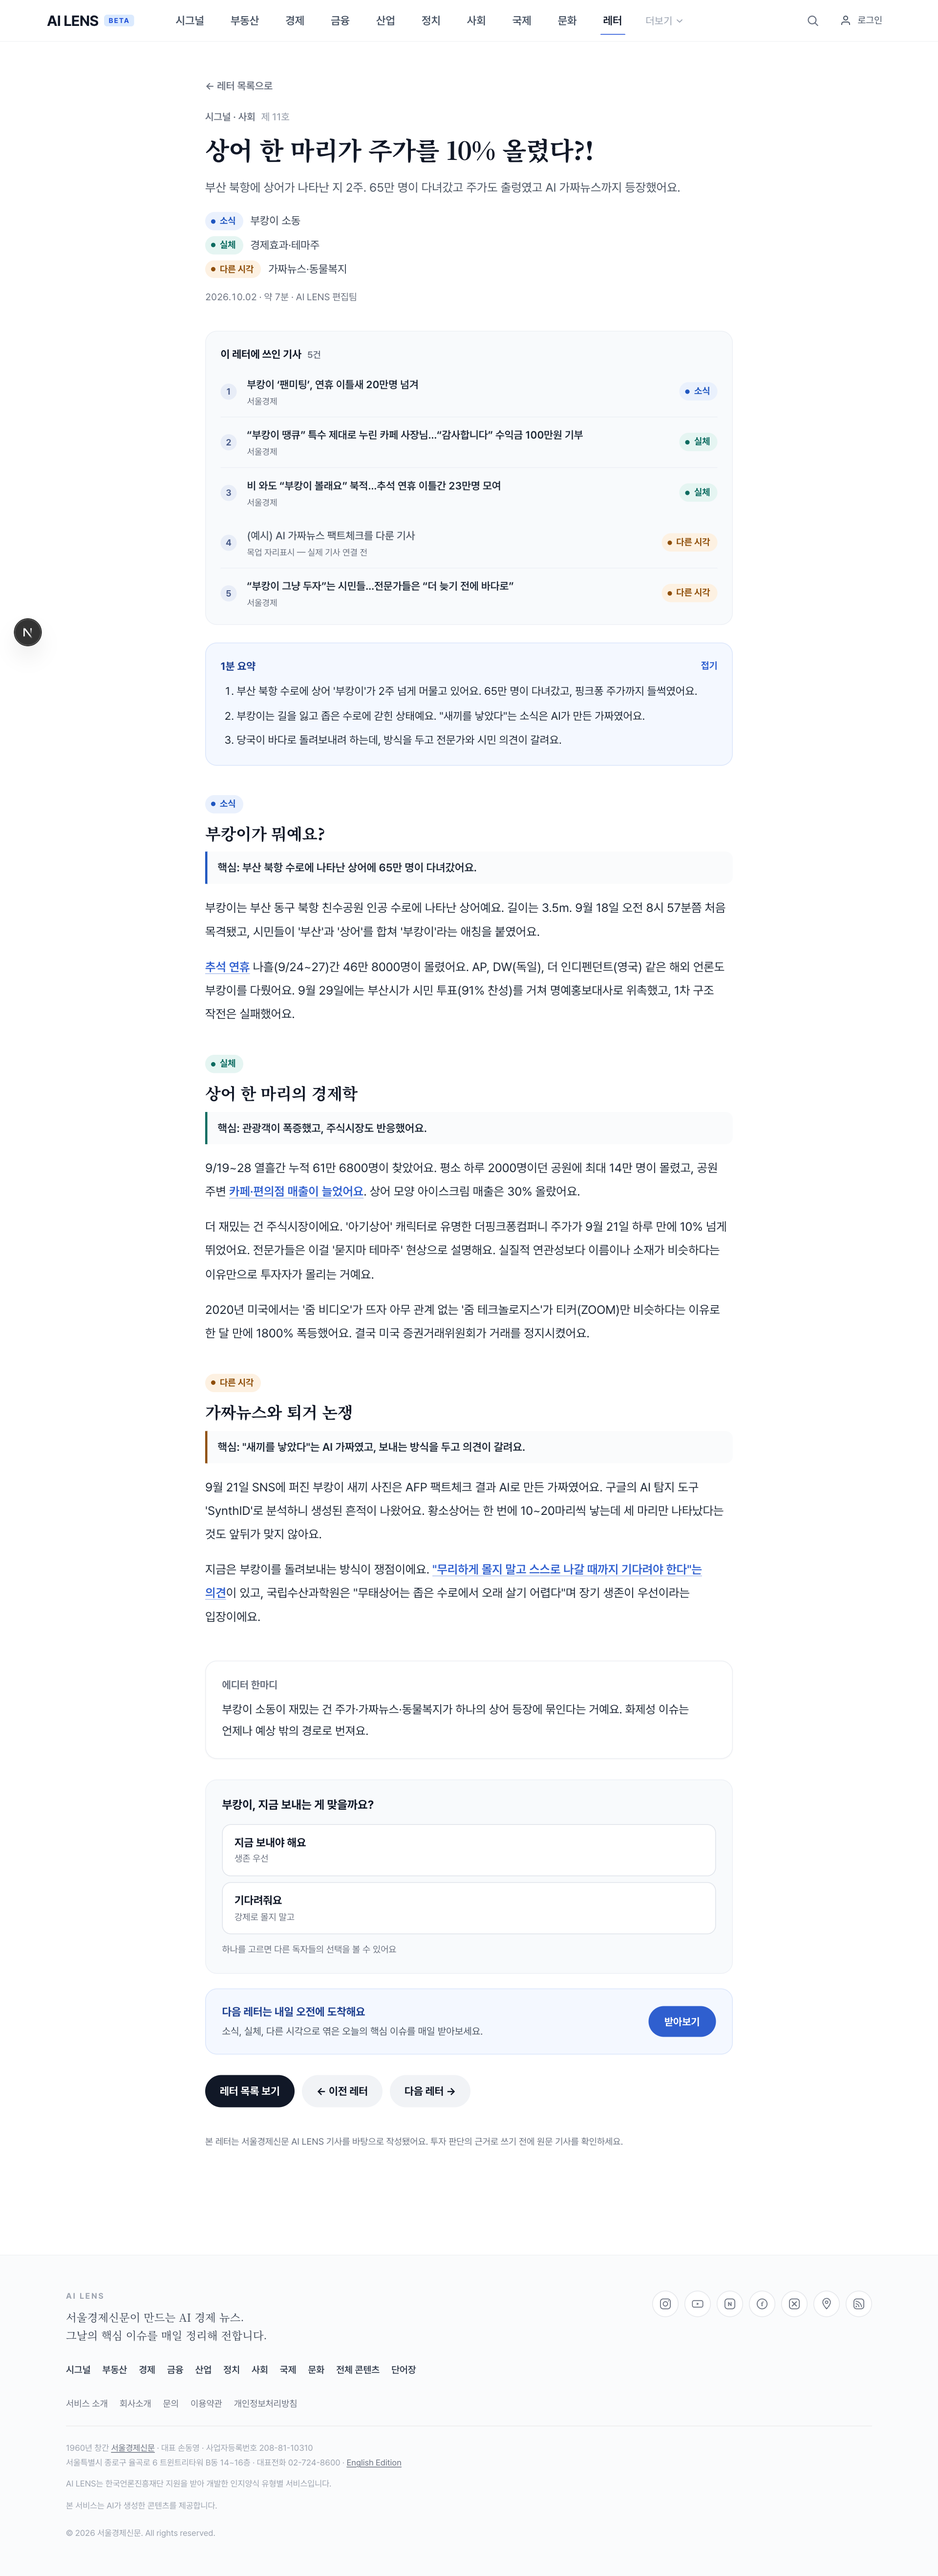
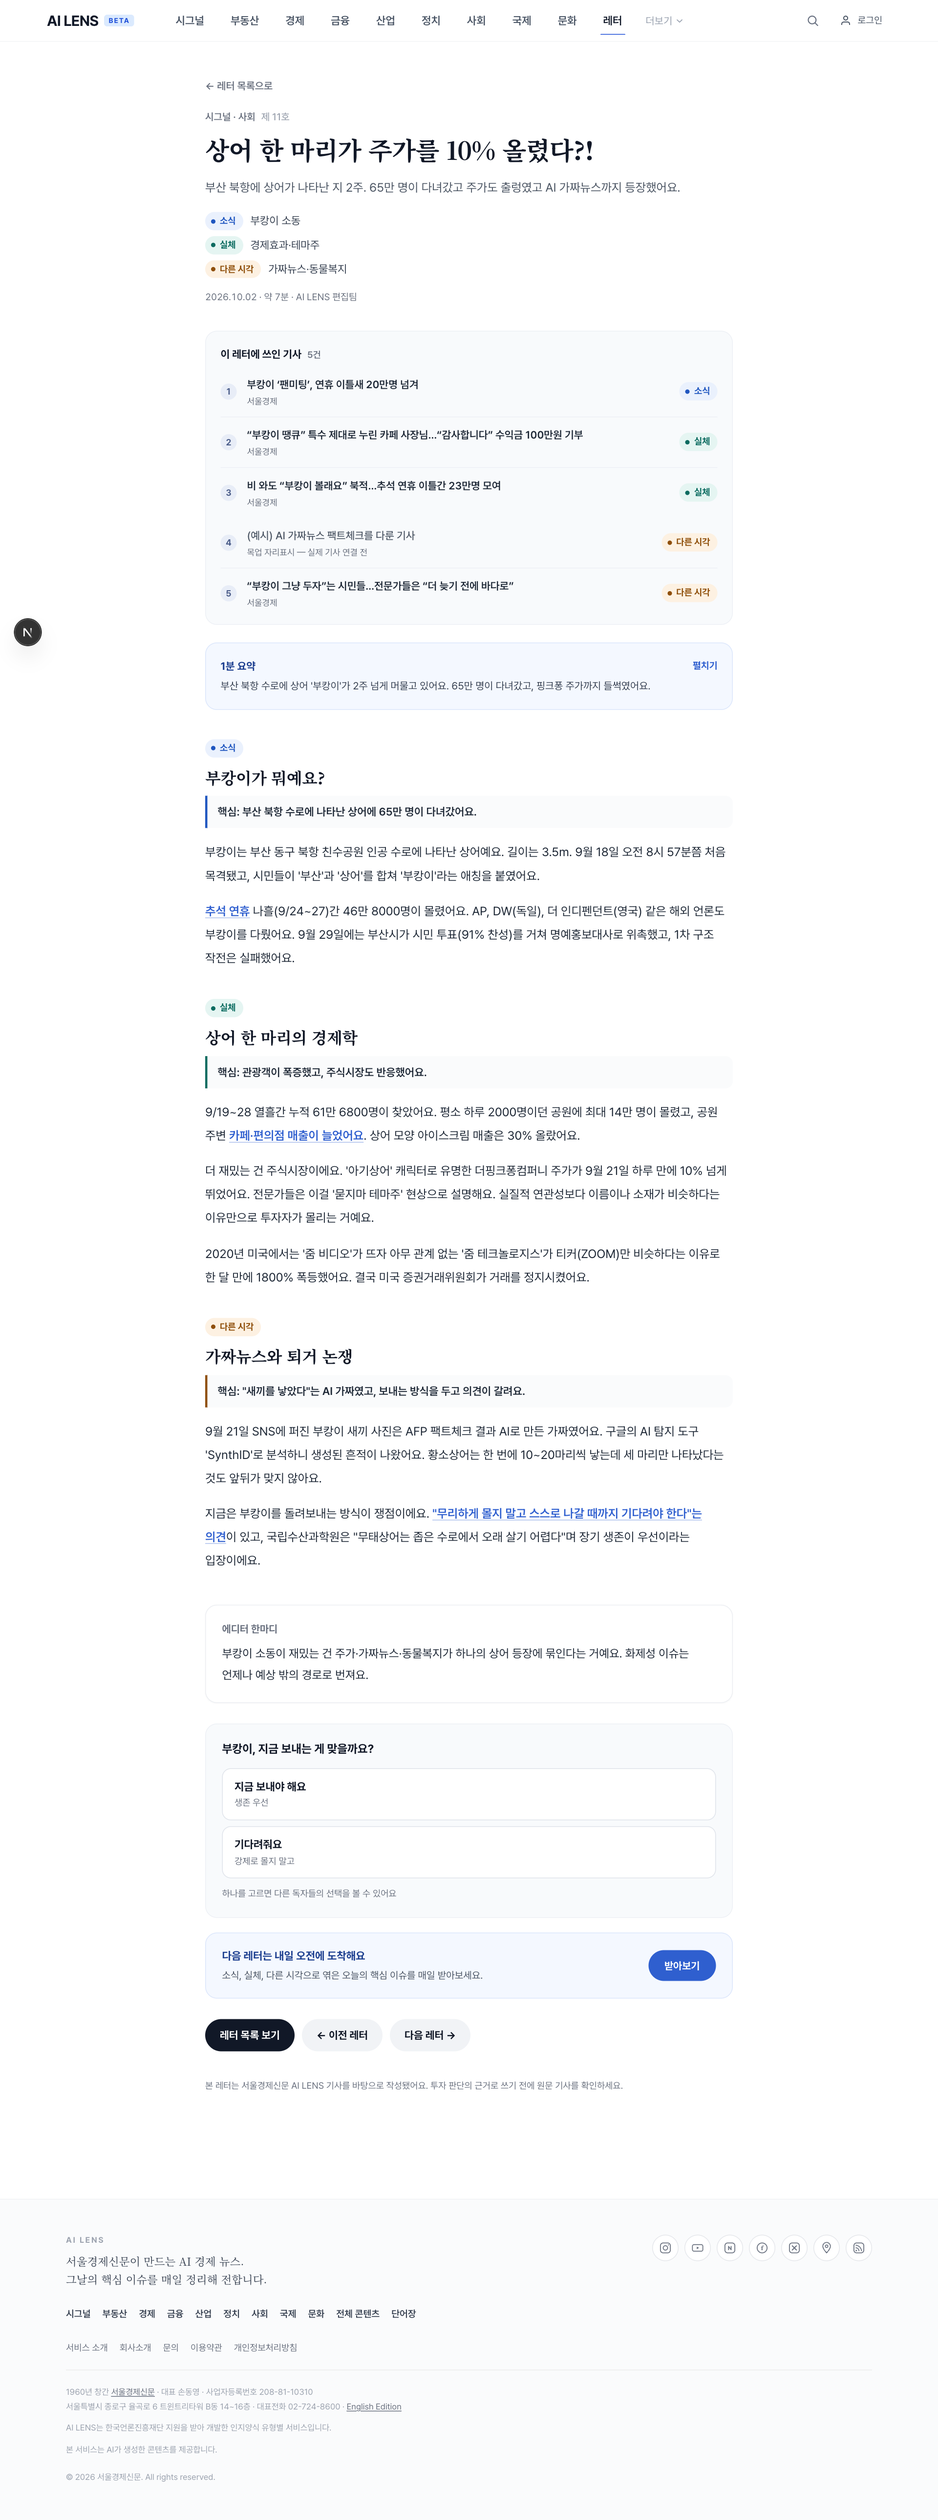
레터 탭: 요약 기본 접힘, 카드 3축 색 띠, 형식 탭 이름 레터→읽기

diff --git a/service/frontend/src/features/letter/components/letterStyles.ts b/service/frontend/src/features/letter/components/letterStyles.ts
@@ -12,6 +12,9 @@ export const LETTER_CSS = `
   .lt-chip[aria-pressed='true'] { background: #111827; color: #fff; }
   .lt-sec-h { margin: 36px 0 14px; font-size: 14px; font-weight: 700; color: #6b7280; }
   .lt-grid { display: grid; gap: 18px; grid-template-columns: repeat(auto-fill, minmax(min(100%, 300px), 1fr)); }
+  .ld-sum-peek { margin: 6px 0 0; font-size: 14px; line-height: 1.6; color: #374151; display: -webkit-box; -webkit-line-clamp: 1; -webkit-box-orient: vertical; overflow: hidden; }
+  .lt-strip { display: flex; gap: 3px; width: 44px; height: 4px; margin-bottom: 2px; }
+  .lt-strip i { flex: 1; border-radius: 2px; }
   .lt-card { display: flex; flex-direction: column; gap: 10px; padding: 22px 22px 18px; border-radius: 18px; background: #fff; border: 1px solid #eceef2; box-shadow: 0 1px 2px rgba(17,24,39,.04); text-decoration: none; color: inherit; transition: box-shadow .2s ease, transform .2s ease, border-color .2s; }
   .lt-card:hover { box-shadow: 0 10px 28px rgba(17,24,39,.09); transform: translateY(-2px); border-color: #dfe3ea; }
   .lt-card-feat { padding: clamp(24px, 4vw, 36px); background: linear-gradient(180deg, #f7faff 0%, #ffffff 70%); border-color: #dbe6fb; }

diff --git a/service/frontend/src/features/letter/components/LetterCard.tsx b/service/frontend/src/features/letter/components/LetterCard.tsx
@@ -1,6 +1,6 @@
 import Link from 'next/link';
 import { AxisBadge } from './AxisBadge';
-import type { IssueLetter } from '../data/letterTypes';
+import { AXIS_META, type IssueLetter } from '../data/letterTypes';
 
 export function formatLetterDate(iso: string): string {
   const [y, m, d] = iso.split('-');
@@ -13,6 +13,11 @@ export function LetterCard({ letter, featured = false }: { letter: IssueLetter; 
   const tags = featured || !letter.cardTags ? [...new Set(letter.axisLabels.map((a) => a.axis))].map((axis) => ({ axis, label: undefined as string | undefined })) : letter.cardTags;
   return (
     <Link href={`/letter/${encodeURIComponent(letter.slug)}`} className={`lt-card${featured ? ' lt-card-feat' : ''}`}>
+      <span className="lt-strip" aria-hidden>
+        {[...new Set(letter.axisLabels.map((l) => l.axis))].map((axis) => (
+          <i key={axis} style={{ background: AXIS_META[axis].tone }} />
+        ))}
+      </span>
       <div className="lt-card-cat">
         {featured && <span className="lt-today">오늘의 레터</span>}
         <span className="lt-moa">모아쓰기</span>

diff --git a/service/frontend/src/features/letter/components/LetterDetailView.tsx b/service/frontend/src/features/letter/components/LetterDetailView.tsx
@@ -32,7 +32,7 @@ function Segments({ parts, letterSlug }: { parts: LetterSegment[]; letterSlug: s
 }
 
 export function LetterDetailView({ letter, prevSlug, nextSlug }: { letter: IssueLetter; prevSlug?: string; nextSlug?: string }) {
-  const [summaryOpen, setSummaryOpen] = useState(true);
+  const [summaryOpen, setSummaryOpen] = useState(false);
   const [ctaMsg, setCtaMsg] = useState(false);
 
   return (
@@ -75,12 +75,14 @@ export function LetterDetailView({ letter, prevSlug, nextSlug }: { letter: Issue
             {summaryOpen ? '접기' : '펼치기'}
           </button>
         </div>
-        {summaryOpen && (
+        {summaryOpen ? (
           <ol>
             {letter.summary.map((s, i) => (
               <li key={i}>{s}</li>
             ))}
           </ol>
+        ) : (
+          <p className="ld-sum-peek">{letter.summary[0]}</p>
         )}
       </section>
 

diff --git a/service/frontend/src/features/news-feed/components/cards/LensFormatGuide.tsx b/service/frontend/src/features/news-feed/components/cards/LensFormatGuide.tsx
@@ -35,7 +35,7 @@ function Sketch({ short, filterId }: { short: string; filterId: string }) {
   const common = { width: '100%', height: '100%', viewBox: '0 0 96 76', 'aria-hidden': true } as const;
 
   switch (short) {
-    case '레터':
+    case '읽기':
       return (
         <svg {...common}>
           <g filter={`url(#${filterId})`}>
@@ -117,7 +117,7 @@ function Sketch({ short, filterId }: { short: string; filterId: string }) {
 
 // 하단 버튼 카피 — 지금 시연 중인 형식의 "행동"으로 바뀐다.
 const CTA: Record<string, string> = {
-  레터: '지금 읽으러 갈래요',
+  읽기: '지금 읽으러 갈래요',
   웹툰: '지금 웹툰 보러 갈래요',
   팟캐스트: '지금 들으러 갈래요',
   영상: '지금 영상 보러 갈래요',

diff --git a/service/frontend/src/shared/constants/lensPerspectives.ts b/service/frontend/src/shared/constants/lensPerspectives.ts
@@ -62,7 +62,7 @@ const LENS_BORDER_TINTS = ['#ddd6fe', '#fecdd3', '#a7f3d0', '#fde68a'] as const;
 export const LENS_PERSPECTIVES: readonly LensPerspective[] = [
   {
     ordinal: '①',
-    short: '레터',
+    short: '읽기',
     full: '차분히 읽고 싶은 사람',
     tagline: '구조와 흐름까지 제대로 알고 싶다면',
     duration: '2분 읽기',

diff --git a/docs/worklog/2026-10/2026-10-09-레터탭-목업/README.md b/docs/worklog/2026-10/2026-10-09-레터탭-목업/README.md
@@ -50,3 +50,9 @@ tsc·eslint·vitest 59·`npm run build`·프로덕션 `next start`: `/letter` 20
 - 경매: 낙찰가율 100% 돌파(20076662), 강제경매 급증·청담동 빌라(20099864)
 - 남은 3건은 DB에서 주제가 맞는 기사를 찾지 못함(성수동 기사는 젠트리피케이션 주제와 거리가 멀어 제외)
 - 정식 단계: 레터↔기사를 article_no로 연결(letter_sources), 레터 생성 시 후보 기사를 DB에서 먼저 뽑아 전달
+
+## P3 결정 반영 (2026-10-09)
+- 1분 요약: 기본 접힘(첫 줄 미리보기 + 펼치기), v3 목업과 동일 방향
+- 카드 시각 앵커: 카드 상단에 3축 색 띠(레터에 있는 축만), 이모지·이미지 없음
+- 기사 상세 첫 탭 이름 "레터"→"읽기": `LENS_PERSPECTIVES.short`(표시용)만 변경, 데이터 라벨 '레터'(CMS)는 유지. `LensFormatGuide` 스케치·CTA 키도 함께 변경
+- 남은 "(예시)" 출처 3건은 유지(DB에서 주제가 맞는 서울경제 기사 없음)
